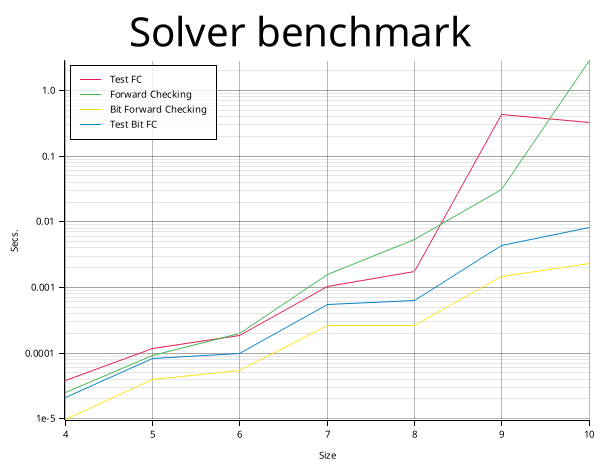
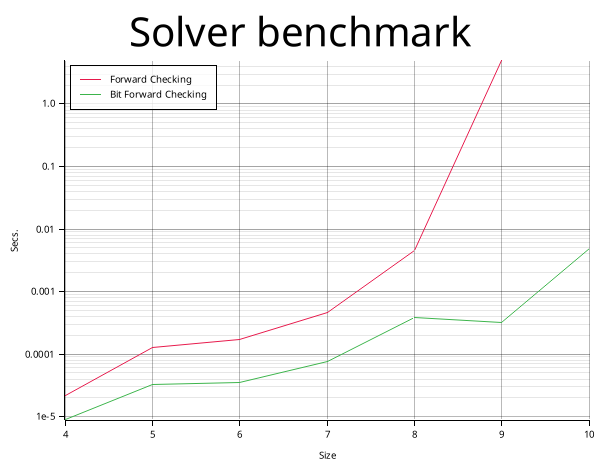
Optimize bitmap domain

Changed region(s): [[0.03, 0.1191, 0.99, 0.8936]]

diff --git a/src/solver/domain/bit_domain.rs b/src/solver/domain/bit_domain.rs
@@ -43,17 +43,19 @@ impl DomainTrait for BitDomain {
     }
 
     fn values(&self) -> Vec<usize> {
+        let mut bits = self.0;
         let mut values = Vec::new();
         for i in 0..usize::BITS as usize {
-            if (self.0 & (1 << i)) != 0 {
+            if bits == 0 {
+                break;
+            }
+
+            if (bits & 1) != 0 {
                 values.push(i + 1);
             }
+            bits >>= 1;
         }
         values
-    }
-
-    fn is_empty(&self) -> bool {
-        self.0 == 0
     }
 }
 
@@ -128,14 +130,5 @@ mod tests {
     fn bit_domain_values() {
         let domain = BitDomain(0b101100);
         assert_eq!(domain.values(), vec![3, 4, 6]);
-    }
-
-    #[test]
-    fn bit_domain_is_empty() {
-        let domain = BitDomain(0);
-        assert!(domain.is_empty());
-
-        let domain = BitDomain(0b101100);
-        assert!(!domain.is_empty());
     }
 }

diff --git a/src/solver/domain/mod.rs b/src/solver/domain/mod.rs
@@ -1,7 +1,7 @@
 pub mod bit_domain;
 pub mod hash_domain;
 
-pub trait DomainTrait: DomainClone {
+pub trait DomainTrait {
     /// Removes a value from the domain. Returns whether the value was present
     /// in the domain.
     fn remove(&mut self, value: usize) -> Option<bool>;
@@ -22,27 +22,4 @@ pub trait DomainTrait: DomainClone {
 
     /// Returns all values from the domain.
     fn values(&self) -> Vec<usize>;
-
-    /// Returns whether the domain is empty
-    fn is_empty(&self) -> bool;
-}
-
-pub trait DomainClone {
-    /// Clones the domain box
-    fn clone_box(&self) -> Box<dyn DomainTrait>;
-}
-
-impl<T> DomainClone for T
-where
-    T: DomainTrait + Clone + 'static,
-{
-    fn clone_box(&self) -> Box<dyn DomainTrait> {
-        Box::new(self.clone())
-    }
-}
-
-impl Clone for Box<dyn DomainTrait> {
-    fn clone(&self) -> Self {
-        self.clone_box()
-    }
 }

diff --git a/src/solver/domain/hash_domain.rs b/src/solver/domain/hash_domain.rs
@@ -44,10 +44,6 @@ impl DomainTrait for HashDomain {
     fn values(&self) -> Vec<usize> {
         self.0.iter().cloned().collect()
     }
-
-    fn is_empty(&self) -> bool {
-        self.0.is_empty()
-    }
 }
 
 #[cfg(test)]
@@ -125,14 +121,5 @@ mod tests {
         let mut values = domain.values();
         values.sort();
         assert_eq!(values, vec![3, 4, 6]);
-    }
-
-    #[test]
-    fn hash_domain_is_empty() {
-        let domain = HashDomain(HashSet::new());
-        assert!(domain.is_empty());
-
-        let domain = HashDomain(HashSet::from_iter([1, 2, 3]));
-        assert!(!domain.is_empty());
     }
 }

diff --git a/src/solver/ac3_solver.rs b/src/solver/ac3_solver.rs
@@ -45,8 +45,7 @@ where
         };
 
         let id = pos.x + pos.y * self.board.size();
-        let values: Vec<usize> = self.values[id].values();
-        for val in values {
+        for val in self.values[id].values() {
             let vals = self.values.clone();
 
             if !self.assign(val, pos) {

diff --git a/src/solver/fc_solver.rs b/src/solver/fc_solver.rs
@@ -44,8 +44,7 @@ where
         };
 
         let id = x + y * self.board.size();
-        let values = self.values[id].values();
-        for val in values {
+        for val in self.values[id].values() {
             let vals = self.values.clone();
 
             if self.assign(val, x, y).is_none() {
